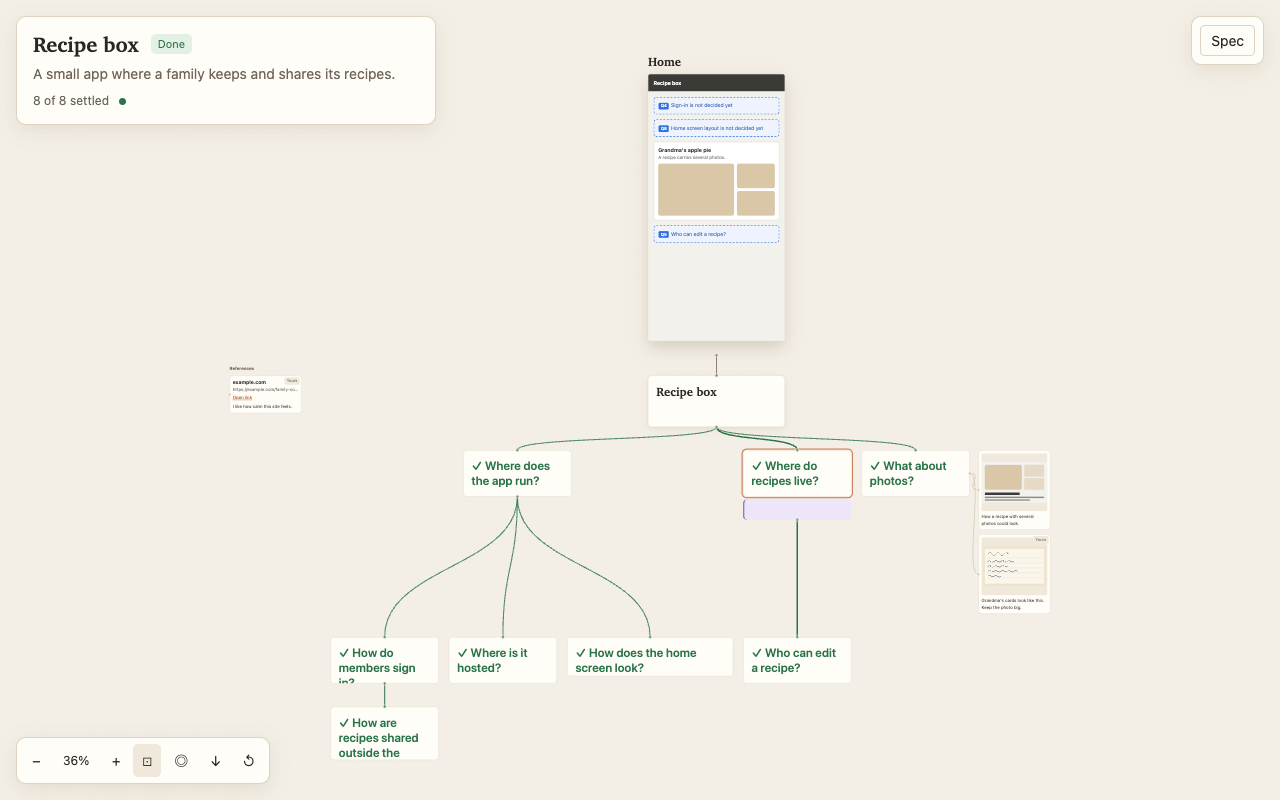
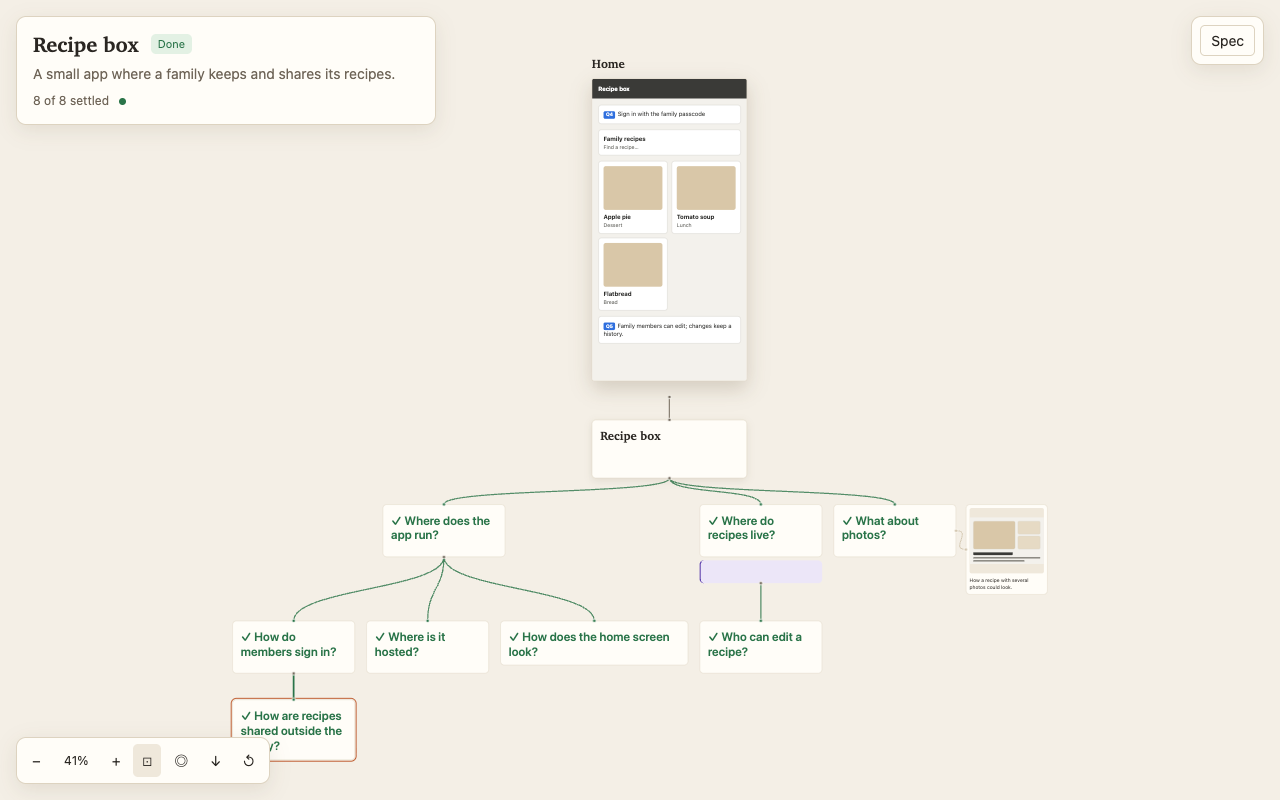
Demo and README: answering on the board

diff --git a/tools/record_demo.py b/tools/record_demo.py
@@ -18,41 +18,73 @@ from playwright.sync_api import sync_playwright
 # illustrative replay data, not claims about what the sample's user decided.
 # Add a stage or an action here without changing the recording loop.
 STAGES = [
-    {"name": "Idea", "round": 0, "pause": 2},
+    {"name": "Idea", "round": 0, "pause": 1.5},
     {"name": "First round", "round": 1, "asking": ["q1", "q2", "q3"],
-     "pause": 4, "actions": [{"type": "focus", "ids": ["q1", "q2", "q3"]}]},
+     "pause": 0, "actions": [
+         {"type": "focus", "ids": ["q1"]}, {"type": "wait", "seconds": 0.6},
+         {"type": "click", "selector": '[data-question-id="q1"] [data-answer-option="b"] .option-label'},
+         {"type": "wait", "seconds": 1},
+         {"type": "focus", "ids": ["q3"]}, {"type": "wait", "seconds": 0.4},
+         {"type": "fill", "question": "q3", "text": "Several photos per recipe, grandma's handwritten cards matter."},
+         {"type": "wait", "seconds": 0.5},
+         {"type": "click", "selector": '#round-bar button[aria-label="Pick the recommendations"]'},
+         {"type": "focus", "ids": ["q2"]}, {"type": "wait", "seconds": 0.7},
+         {"type": "send", "expected": {
+             "q1": {"option": "b", "text": ""}, "q2": {"option": "b", "text": ""},
+             "q3": {"option": None, "text": "Several photos per recipe, grandma's handwritten cards matter."}}}]},
     {"name": "Answers and research", "round": 2,
      "asking": ["q4", "q5", "q6", "q8"], "research": "running", "refs": True,
-     "pause": 5, "steps": [
+     "pause": 3.9, "steps": [
          "Reading: SQLite appropriate uses for a small web app",
          "Reading: SQLite WAL mode and concurrent readers",
          "Comparing: deployment limits and backup requirements"],
-     "actions": [{"type": "focus", "ids": ["q8"]},
-                 {"type": "wait", "seconds": 1},
-                 {"type": "focus", "ids": ["q2"]},
+     "actions": [{"type": "focus", "ids": ["q2"]},
                  {"type": "wait", "seconds": 0.4},
                  {"type": "click", "selector": ".research-chip"},
                  {"type": "focus", "ids": ["q2"]}]},
     {"name": "First sketch", "round": 2,
      "asking": ["q4", "q5", "q6", "q8"], "research": "running", "refs": True,
-     "sketch": True, "pause": 4,
+     "sketch": True, "pause": 3,
      "actions": [{"type": "focus", "ids": ["sketch:k1"]}]},
-    {"name": "Settled decisions", "round": 3, "research": "done",
-     "refs": True, "sketch": True, "pause": 4,
-     "answers": {
-         "q4": [None, "Members sign in with a shared family passcode."],
-         "q5": ["b", "Anyone in the family can edit a recipe, with history."],
-         "q6": [None, "The app runs on one host with persistent storage."],
-         "q8": ["b", "The home screen is a grid of recipe photos."],
-         "q7": ["a", "A public link shares a recipe outside the family."]},
+    {"name": "Choose a layout", "inherit": True, "pause": 0, "actions": [
+         {"type": "focus", "ids": ["q8"]}, {"type": "wait", "seconds": 3},
+         {"type": "click", "selector": '[data-question-id="q8"] [data-answer-option="b"] .option-label'},
+         {"type": "wait", "seconds": 1.2},
+         {"type": "focus", "ids": ["q6"]}, {"type": "wait", "seconds": 0.4},
+         {"type": "fill", "question": "q6", "text": "One host with persistent storage."},
+         {"type": "wait", "seconds": 0.5},
+         {"type": "focus", "ids": ["q5"]}, {"type": "wait", "seconds": 0.4},
+         {"type": "click", "selector": '[data-question-id="q5"] [data-answer-option="b"] .option-label'},
+         {"type": "wait", "seconds": 0.4},
+         {"type": "click", "selector": '#round-bar button[aria-label="Pick the recommendations"]'},
+         {"type": "focus", "ids": ["q8"]}, {"type": "wait", "seconds": 0.6},
+         {"type": "send", "expected": {
+             "q4": {"option": None, "text": "A shared family passcode; accounts are more than a family needs."},
+             "q5": {"option": "b", "text": ""},
+             "q6": {"option": None, "text": "One host with persistent storage."},
+             "q8": {"option": "b", "text": ""}}}]},
+    {"name": "Next round", "round": 3, "asking": ["q7"], "research": "done",
+     "refs": True, "sketch": True, "pause": 0, "actions": [
+         {"type": "focus", "ids": ["q7"]}, {"type": "wait", "seconds": 0.6},
+         {"type": "click", "selector": '[data-question-id="q7"] [data-answer-option="a"] .option-label'},
+         {"type": "wait", "seconds": 0.7},
+         {"type": "send", "expected": {"q7": {"option": "a", "text": ""}}}]},
+    {"name": "Settled decisions", "round": 3, "done": True, "research": "done",
+     "refs": True, "sketch": True, "pause": 2.5,
      "actions": [{"type": "focus", "ids": ["q2", "report:s1", "q5"]}]},
-    {"name": "Spec", "inherit": True, "pause": 5,
+    {"name": "Spec", "inherit": True, "pause": 4,
      "actions": [{"type": "click", "selector": "#spec-toggle"},
                  {"type": "focus", "ids": ["q1", "q4", "q7"]}]},
 ]
 
 ROOT = Path(__file__).resolve().parents[1]
-FFMPEG = "/opt/homebrew/bin/ffmpeg"
+DECISIONS = {
+    "q4": "Members sign in with a shared family passcode.",
+    "q5": "Anyone in the family can edit a recipe, with history.",
+    "q6": "The app runs on one host with persistent storage.",
+    "q8": "The home screen is a grid of recipe photos.",
+    "q7": "A public link shares a recipe outside the family.",
+}
 
 
 def read_assignment(path):
@@ -65,22 +97,27 @@ def write_assignment(path, variable, data):
     pending.replace(path)
 
 
-def session_for(final, stage, previous):
+def session_for(final, stage, previous, applied, answered):
     if stage.get("inherit"):
         return copy.deepcopy(previous)
     data = copy.deepcopy(final)
-    data["status"] = "done" if stage.get("answers") else "active"
+    data["status"] = "done" if stage.get("done") else "active"
+    data["answered"] = answered
     data["questions"] = [q for q in data["questions"] if q["round"] <= stage["round"]]
     for q in data["questions"]:
         q.pop("reopened", None)
         if q["id"] in stage.get("asking", []):
             q.update(status="asking", answer=None, decision="")
-        if q["id"] in stage.get("answers", {}):
-            option, decision = stage["answers"][q["id"]]
-            q.update(status="settled", answer={"option": option, "text": decision}, decision=decision)
+        if q["id"] in applied:
+            q.update(status="settled", answer=applied[q["id"]],
+                     decision=DECISIONS.get(q["id"], q["decision"]))
     data["architecture"] = data["architecture"] if stage["round"] >= 2 else []
     data["refs"] = data["refs"] if stage.get("refs") else []
     data["sketches"] = data["sketches"] if stage.get("sketch") else []
+    if "q8" in applied:
+        for sketch in data["sketches"]:
+            sketch["rev"] += 1
+            sketch["note"] = "Applied Q8's grid layout, family sign-in and editing decisions."
     data["research"] = data["research"][:1] if stage.get("research") else []
     if data["research"]:
         data["research"][0]["status"] = stage["research"]
@@ -106,7 +143,7 @@ class Recording:
                 self.page.wait_for_timeout(remaining * 1000)
 
 
-def action(page, item, recording):
+def action(page, item, recording, session, answered):
     if item["type"] == "click":
         page.locator(item["selector"]).click()
     elif item["type"] == "scroll":
@@ -116,11 +153,48 @@ def action(page, item, recording):
     elif item["type"] == "focus":
         # Use the board's camera, leaving its content and layout untouched.
         page.evaluate("ids => focusView(true, ids)", item["ids"])
+    elif item["type"] == "fill":
+        page.locator(f'[data-answer-question="{item["question"]}"]').fill(item["text"])
+    elif item["type"] == "send":
+        command = [sys.executable, str(ROOT / "skills/visual-grilling/server.py"),
+                   str(session), "--wait-answers"]
+        if answered:
+            command.extend(["--after", answered])
+        waiter = subprocess.Popen(command, stdout=subprocess.PIPE, text=True)
+        try:
+            page.get_by_role("button", name="Send answers", exact=True).click()
+            page.locator(".question-card.pending").first.wait_for()
+            batch = read_assignment(session / "user.js")["answers"][-1]
+            actual = {answer["question"]: {"option": answer["option"], "text": answer["text"]}
+                      for answer in batch["items"]}
+            assert actual == item["expected"], (actual, item["expected"])
+            recording.pause(1.2)  # show Sent before the next stage plays the agent
+            output, _ = waiter.communicate(timeout=3)
+            assert waiter.returncode == 0 and json.loads(output)["answers"] == [batch]
+            if "q8" in actual:
+                # Play the agent's sketch update in the copy, using the clicked variant.
+                current = read_assignment(session / "session.js")
+                question = next(q for q in current["questions"] if q["id"] == "q8")
+                option = next(o for o in question["options"] if o["id"] == actual["q8"]["option"])
+                sketch = (session / option["sketch"]).read_text()
+                sketch = sketch.replace('class="open"', 'class="box"')
+                sketch = sketch.replace("Sign-in is not decided yet", "Sign in with the family passcode")
+                sketch = sketch.replace("Who can edit a recipe?", "Family members can edit; changes keep a history.")
+                (session / current["sketches"][0]["src"]).write_text(sketch)
+            print(f'Applied board batch {batch["id"]}: {", ".join(actual)}', flush=True)
+            return batch
+        finally:
+            if waiter.poll() is None:
+                waiter.terminate()
+                waiter.wait(timeout=5)
     else:
         raise ValueError("Unknown page action: " + item["type"])
 
 
 def main():
+    ffmpeg = shutil.which("ffmpeg")
+    if ffmpeg is None:
+        raise SystemExit("Cannot record demo: ffmpeg was not found on PATH.")
     (ROOT / "docs").mkdir(exist_ok=True)
     server = None
     with tempfile.TemporaryDirectory(prefix="visual-grilling-demo-") as temporary:
@@ -129,8 +203,8 @@ def main():
         shutil.copytree(ROOT / "examples/demo", session)
         shutil.copyfile(ROOT / "skills/visual-grilling/viewer.html", session / "index.html")
         final = read_assignment(session / "session.js")
-        user = read_assignment(session / "user.js")
-        initial = session_for(final, STAGES[0], None)
+        applied, answered = {}, ""
+        initial = session_for(final, STAGES[0], None, applied, answered)
         write_assignment(session / "session.js", "window.__GRILL__", initial)
         write_assignment(session / "user.js", "window.__GRILL_USER__", {"version": 1, "refs": []})
         (session / "research/s1.log").write_text("")
@@ -159,22 +233,26 @@ def main():
                     recording = Recording(page, work / "frames")
                     previous = initial
                     for stage in STAGES:
-                        data = session_for(final, stage, previous)
+                        data = session_for(final, stage, previous, applied, answered)
                         write_assignment(session / "session.js", "window.__GRILL__", data)
-                        write_assignment(session / "user.js", "window.__GRILL_USER__",
-                                         user if stage.get("refs") or stage.get("inherit") else {"version": 1, "refs": []})
                         signature = {
                             "questions": [[q["id"], q["status"]] for q in data["questions"]],
                             "sketches": len(data["sketches"]),
                             "research": [n["status"] for n in data["research"]],
+                            "answered": data["answered"],
                         }
                         page.wait_for_function("""expected => currentSession &&
                             JSON.stringify(currentSession.questions.map(q => [q.id, q.status])) === JSON.stringify(expected.questions) &&
                             currentSession.sketches.length === expected.sketches &&
-                            JSON.stringify(currentSession.research.map(n => n.status)) === JSON.stringify(expected.research)
+                            JSON.stringify(currentSession.research.map(n => n.status)) === JSON.stringify(expected.research) &&
+                            currentSession.answered === expected.answered
                         """, arg=signature)
                         for item in stage.get("actions", []):
-                            action(page, item, recording)
+                            batch = action(page, item, recording, session, answered)
+                            if batch:
+                                for answer in batch["items"]:
+                                    applied[answer["question"]] = {"option": answer["option"], "text": answer["text"]}
+                                answered = batch["id"]
                         steps = stage.get("steps", [])
                         for line in steps:
                             with (session / "research/s1.log").open("a") as log:
@@ -191,7 +269,7 @@ def main():
                         print(stage["name"], flush=True)
                         previous = data
                     duration = recording.frames / 10
-                    assert 20 <= duration <= 35, duration
+                    assert 25 <= duration <= 40, duration
                     assert page.locator("#spec-toggle").get_attribute("aria-expanded") == "true"
                     assert "The home screen is a grid" in page.locator("#spec-content").inner_text()
                     assert not page.locator("#warning").is_visible()
@@ -204,12 +282,12 @@ def main():
                 finally:
                     browser.close()
             video = str(work / "recording.mkv")
-            subprocess.run([FFMPEG, "-v", "error", "-y", "-framerate", "10", "-i",
+            subprocess.run([ffmpeg, "-v", "error", "-y", "-framerate", "10", "-i",
                             str(work / "frames/frame-%05d.png"), "-c:v", "ffv1", video], check=True)
             filters = "fps=10,scale=960:-1:flags=lanczos"
-            subprocess.run([FFMPEG, "-v", "error", "-y", "-i", video, "-vf",
+            subprocess.run([ffmpeg, "-v", "error", "-y", "-i", video, "-vf",
                             filters + ",palettegen=stats_mode=diff", str(work / "palette.png")], check=True)
-            subprocess.run([FFMPEG, "-v", "error", "-y", "-i", video, "-i", str(work / "palette.png"),
+            subprocess.run([ffmpeg, "-v", "error", "-y", "-i", video, "-i", str(work / "palette.png"),
                             "-lavfi", f"[0:v]{filters}[v];[v][1:v]paletteuse=dither=bayer:bayer_scale=3:diff_mode=rectangle",
                             "-loop", "0", str(work / "demo.gif")], check=True)
             size = (work / "demo.gif").stat().st_size

diff --git a/README.md b/README.md
@@ -1,15 +1,16 @@
 # visual-grilling
 
-An agent skill that interviews you about an idea in rounds of questions while a live browser board shows the decisions, sketches, references, research and spec.
+An agent skill that interviews you about an idea in rounds you can answer by clicking on a live browser board, with a live sketch per option for look-and-layout questions alongside the decisions, references, research and spec.
 
 ![A Recipe box interview building up on the live board](docs/demo.gif)
 
 ## What it does
 
-The agent asks the questions whose prerequisites are settled, waits for your answers, then opens the next round. As you answer, it updates a session folder that the board reads about once a second.
+The agent asks the questions whose prerequisites are settled, waits for your answers on the board or in chat, then opens the next round. Click options on the board and press "Send answers" to answer a round; "Pick the recommendations" fills the recommended answers in one click. As you answer, the agent updates a session folder that the board reads about once a second.
 
 - A decision tree shows settled answers, current questions and branches still waiting.
 - Rough HTML sketches show the thing being designed and update as decisions settle.
+- Look-and-layout questions can show a small live sketch of each option, so you choose by looking.
 - Pictures and links can be pinned as references, including by paste and drag-and-drop.
 - Live research notes show progress steps and findings, with reports you can open.
 - A spec panel collects decisions, architecture, research and open questions.
@@ -20,7 +21,7 @@ The agent asks the questions whose prerequisites are settled, waits for your ans
 - Python 3 for the board server; it uses only the standard library.
 - A browser.
 
-Without Python, the skill instructs the agent to open the copied `index.html` directly from disk: the board still updates from the session files, but adding references is off. The board and recording have been tried on macOS. Windows has not been tried yet.
+Without Python, the skill instructs the agent to open the copied `index.html` directly from disk: the board still updates from the session files, but answering on the board and adding references are off. The board and recording have been tried on macOS. Windows has not been tried yet.
 
 ## Install
 
@@ -56,7 +57,7 @@ Choose one installation method per destination. Symlink commands expect that des
 
 1. In your agent, type: `visual grill me about a small app where my family keeps and shares recipes`.
 2. The agent creates `.grill/<topic>/`, copies the board there, writes the idea and starts the local server. It opens or gives you the board URL.
-3. Answer the numbered questions in chat. The board shows your settled decisions and the next round.
+3. Answer on the board by clicking options and pressing "Send answers", or type your answers in chat. The board shows your settled decisions and the next round.
 4. Look at the sketches and research as they appear. Paste or drop pictures and links onto the board to inform the next round.
 5. When every branch is settled, confirm the shared understanding. The agent waits for research to finish and writes `spec.md` in the session folder.
 
@@ -73,7 +74,7 @@ open "$board_url"
 printf 'Board: %s\nSession copy: %s\n' "$board_url" "$demo_dir"
 ```
 
-The server chooses an available port and runs in the background. The sample shows the Recipe box tree with some questions and research still open. When you finish, stop that server and delete the copy in the same terminal:
+The server chooses an available port and runs in the background. The sample shows the Recipe box tree with some questions and research still open. You can click Q8's three live variants and the send bar; without an agent to take the answers, sent cards stay "Sent". When you finish, stop that server and delete the copy in the same terminal:
 
 ```sh
 python3 - "$demo_dir" <<'PY'
@@ -95,21 +96,23 @@ The agent copies `viewer.html` into a session folder as `index.html`. `server.py
 | Session file | Written by | Purpose |
 | --- | --- | --- |
 | `session.js` | Agent | Idea, questions, decisions, architecture and metadata for sketches, references and research. |
-| `user.js` | Server, on board actions | References the user adds, their targets and notes; the agent reads it. |
+| `user.js` | Server, on board actions | References the user adds, their targets and notes, and sent answer batches; the agent reads it. |
 | `refs/` | Agent and server | Agent reference pictures and images pasted or dropped by the user. |
 | `sketch/` | Agent | Self-contained HTML sketches, updated as decisions settle. |
 | `research/` | Research agent, or the interviewing agent | Live `.log` steps and Markdown reports. |
 | `spec.md` | Agent | The confirmed spec, written at the end. |
 
+The agent runs `server.py <session> --wait-answers` in the background to wait for a new answer batch in `user.js`; its JSON output wakes the agent where background commands support that. The agent applies the answers, settles those questions and sets `answered` in `session.js` to the batch id.
+
 ## Privacy
 
-The server listens only on `127.0.0.1` and uses no third-party packages. It serves files from the session folder and saves pasted or dropped images and reference metadata there. Link references are stored as URLs; the server does not fetch their destinations. Its server-reuse check contacts its own loopback URL.
+The server listens only on `127.0.0.1` and uses no third-party packages. It serves files from the session folder and saves pasted or dropped images, reference metadata and sent answer batches there. Link references are stored as URLs; the server does not fetch their destinations. Its server-reuse check contacts its own loopback URL.
 
 The board can load remote reference images and open external links supplied in the session. Research and the agent itself may contact outside services. Their behavior depends on the agent and tools you use.
 
 ## Development
 
-Run `python3 tools/record_demo.py` to rebuild `docs/demo.gif` and `docs/board.png`; it needs Python Playwright, installed Google Chrome and ffmpeg at `/opt/homebrew/bin/ffmpeg`. Edit the `STAGES` list to change the replay; it uses a temporary sample copy and illustrative closing answers, then stops its server and removes the copy.
+Run `python3 tools/record_demo.py` to rebuild `docs/demo.gif` and `docs/board.png`; it needs Python Playwright, installed Google Chrome and ffmpeg on `PATH`. Edit the `STAGES` list to change the replay; it uses a temporary sample copy and illustrative closing answers, then stops its server and removes the copy.
 
 ## Credits and license
 
